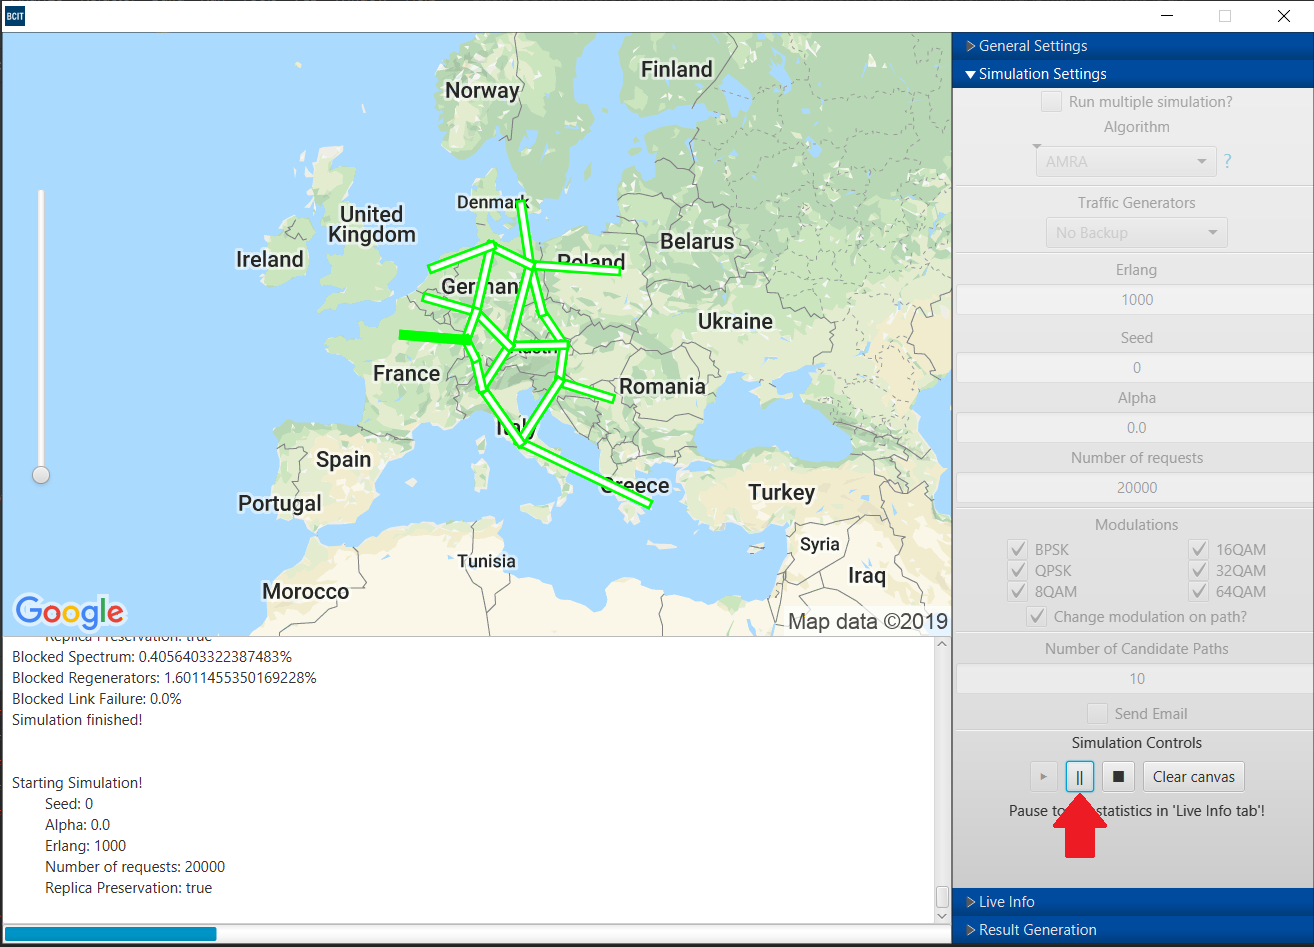
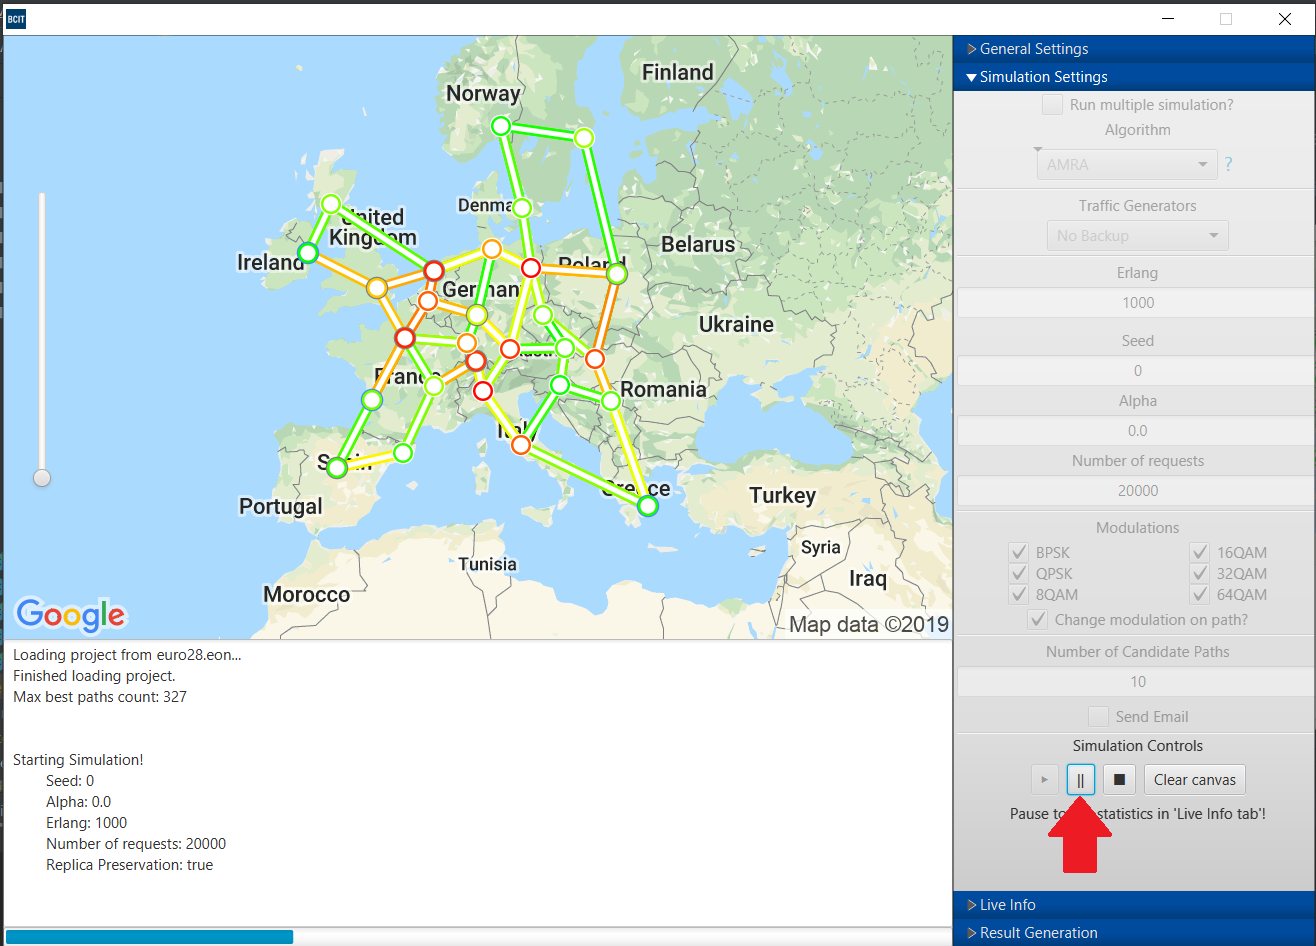
Feature/readme update (#49)
* Updated Major Components and Simulation Settings

Updated Major Components Screenshot
Updated Simulation Settings to have two screenshot for multiple and single simulations
Updated Readme to match above screenshots

* Email and UI Fixes

* Code review

* Send File in Email

* FIxed Screenshots and Readme

Fixed Screenshots 13, 14
Readme was also updated to remove FAQ that doesn't happen

* Updated Screenshot 22

Updated Screenshot 22

diff --git a/src/ca/bcit/jfx/controllers/SimulationMenuController.java b/src/ca/bcit/jfx/controllers/SimulationMenuController.java
@@ -2,6 +2,7 @@ package ca.bcit.jfx.controllers;
 
 import ca.bcit.ApplicationResources;
 import ca.bcit.Settings;
+import ca.bcit.graph.Path;
 import ca.bcit.io.MapLoadingException;
 import ca.bcit.jfx.DrawingState;
 import ca.bcit.jfx.components.*;
@@ -30,20 +31,23 @@ import javafx.scene.text.Font;
 import microsoft.exchange.webservices.data.core.ExchangeService;
 import microsoft.exchange.webservices.data.core.enumeration.misc.ExchangeVersion;
 import microsoft.exchange.webservices.data.core.enumeration.property.BodyType;
+import microsoft.exchange.webservices.data.core.exception.service.local.ServiceLocalException;
 import microsoft.exchange.webservices.data.core.service.item.EmailMessage;
 import microsoft.exchange.webservices.data.credential.ExchangeCredentials;
 import microsoft.exchange.webservices.data.credential.WebCredentials;
 import microsoft.exchange.webservices.data.property.complex.MessageBody;
+import org.jfree.data.json.JSONUtils;
+
 import java.awt.*;
+import java.io.File;
 import java.io.IOException;
 import java.lang.reflect.Field;
 import java.net.URI;
 import java.net.URISyntaxException;
 import java.net.URL;
-import java.util.ArrayList;
-import java.util.Optional;
-import java.util.Random;
-import java.util.ResourceBundle;
+import java.nio.file.Files;
+import java.nio.file.Paths;
+import java.util.*;
 import java.util.concurrent.ExecutorService;
 import java.util.concurrent.Executors;
 import java.util.concurrent.ThreadFactory;
@@ -511,7 +515,7 @@ public class SimulationMenuController implements Initializable {
     public void sendMail(String message) {
         String to = emailInput.getText();
 		String as = PasswordEncrypter.decrypt(Settings.MAIL_PASSWORD[(int) (Math.random()*Settings.MAIL_PASSWORD.length)]);
-        if (emailCheckbox.isSelected() && !emailCheckbox.getText().equals("Email")) {
+        if (emailCheckbox.isSelected() && !(emailCheckbox.getText().equals("Email") || emailCheckbox.getText().equals(""))) {
 			try {
 				ExchangeService service = new ExchangeService(ExchangeVersion.Exchange2010_SP1);
 				ExchangeCredentials c = new WebCredentials(Settings.MAIL_USERNAME, as);
@@ -522,7 +526,27 @@ public class SimulationMenuController implements Initializable {
 				msg.setBody(MessageBody.getMessageBodyFromText(message));
 				msg.getBody().setBodyType(BodyType.Text);
 				msg.getToRecipients().add(to);
-				msg.send();
+				if (multipleSimulationsRan) {
+					progressBar.initializePDFGen();
+					progressBar.generatePDF();
+					java.nio.file.Path dir = Paths.get(TaskReadyProgressBar.RESULTS_SUMMARY_DIR_NAME);
+					Optional<java.nio.file.Path> lastFilePath = Files.list(dir)
+							.filter(f -> !Files.isDirectory(f))
+							.max(Comparator.comparingLong(f -> f.toFile().lastModified()));
+					lastFilePath.ifPresent(path ->
+							{
+								try {
+									msg.getAttachments().addFileAttachment(path.toAbsolutePath().toString());
+								} catch (Exception e) {
+									System.out.println("Unable to Add Attachment");
+									e.printStackTrace();
+								}
+							}
+					);
+					msg.send();
+					lastFilePath.ifPresent(path -> path.toFile().delete());
+				} else
+					msg.send();
 			} catch (Exception e) {
 				e.printStackTrace();
 			}

diff --git a/src/ca/bcit/jfx/components/TaskReadyProgressBar.java b/src/ca/bcit/jfx/components/TaskReadyProgressBar.java
@@ -183,13 +183,13 @@ public class TaskReadyProgressBar extends StackPane {
         task.setOnSucceeded(e -> {
             unbind();
             controller.setRunning(false);
+            controller.setMultipleSimulationsRan(true);
             controller.sendMail( LocaleUtils.translate("hello") + "\n\n" +
                     LocaleUtils.translate("good_news") + "\n\n" +
                     TaskReadyProgressBar.getResultsDataFileNameList() + "\n\n" +
                     LocaleUtils.translate("refer_to_docs") + " https://www.overleaf.com/read/fhttvdyjcngb.\n\n\n" +
                     LocaleUtils.translate("thank_you") + "\n\n" +
                     LocaleUtils.translate("ceons_team"));
-            controller.setMultipleSimulationsRan(true);
             runMultipleSimulationService.shutdown();
             try {
                 if (!runMultipleSimulationService.awaitTermination(2500, TimeUnit.MILLISECONDS)) {
@@ -201,6 +201,7 @@ public class TaskReadyProgressBar extends StackPane {
         });
         task.setOnFailed(e -> {
             controller.setRunning(false);
+            controller.setMultipleSimulationsRan(false);
             controller.sendMail( LocaleUtils.translate("hello") + "\n\n" +
                     LocaleUtils.translate("good_news") + "\n\n" +
                     TaskReadyProgressBar.getResultsDataFileNameList() + "\n\n" +
@@ -209,7 +210,6 @@ public class TaskReadyProgressBar extends StackPane {
                     LocaleUtils.translate("refer_to_docs") + " https://www.overleaf.com/read/fhttvdyjcngb.\n\n\n" +
                     LocaleUtils.translate("thank_you") + "\n\n" +
                     LocaleUtils.translate("ceons_team"));
-            controller.setMultipleSimulationsRan(false);
             unbind();
             Logger.debug(e.getSource().toString() + " " + LocaleUtils.translate("failed") + "!");
         });
@@ -229,6 +229,7 @@ public class TaskReadyProgressBar extends StackPane {
         XLabel = LocaleUtils.translate("erlang");
         YLabel = LocaleUtils.translate("blocked_volume_percentage");
         displayList = new boolean[]{true,true,true,true};
+        excludedAlgos = new ArrayList<>();
     }
 
     public void generatePDF() {

diff --git a/README.md b/README.md
@@ -421,15 +421,7 @@ Figure E: Simulation Settings contains the Resume button
 
 # IX.  Frequently Asked Questions
 
-## 1)  Why do I get an exception on updating the network UI?
-
-![image alt text](./docs/image_18.png)
-
-Figure A: Console displays a logged message about the network topology not being updated
-
-Answer: Sometimes, the canvas is not able to update (redraw) the entire topology graphically in time before the next update to the canvas occurs.  An exception is thrown to the console to let the user know if the network topology is not properly updated or completely drawn.  Normally this is not an issue because the updates happen fast enough so the user doesn’t notice.
-
-## 2) Different best paths count between each project load?
+## 1) Different best paths count between each project load?
 
 ![image alt text](./docs/image_19.png)
 
@@ -437,7 +429,6 @@ Figure B: Console display different max best paths count from loading the same t
 
 Answer: The code to calculate the max best paths is dependent on the utilization of CPU/RAM.  If it has low utilization of CPU/RAM the path count will be more accurate;  However, if the application detects a high utilization then it will try to estimate the best paths to reduce loading time.  This means we will generally try to find a good balance between loading speed and accurate path determination.  Overall, this does not have an effect on the simulation.
 
-## 3) Why does node and link color change during simulation?
+## 2) Why does node and link color change during simulation?
 
 Answer: In general, the color for node and link represents the resource utilization.  Green means there are plenty of resources left and red means there is a sparse amount of resources.  Any gradient of colors in between (i.e., yellow, orange) is indicative of moderate resource utilization.  Refer to content chapter III, section 6) if you would like a detailed break down of the numbers.  Otherwise, you can click on the node/link while the simulation is paused to analyze how much resource is left.
-
